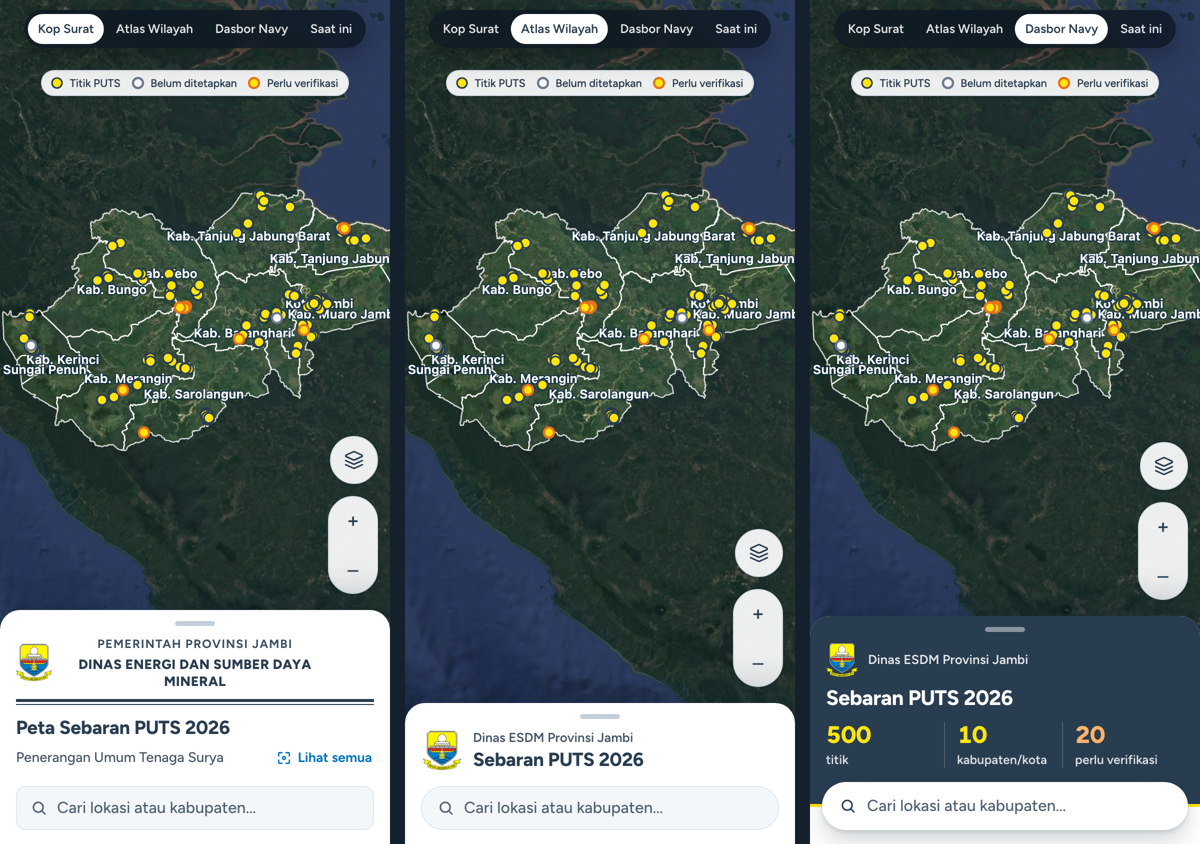
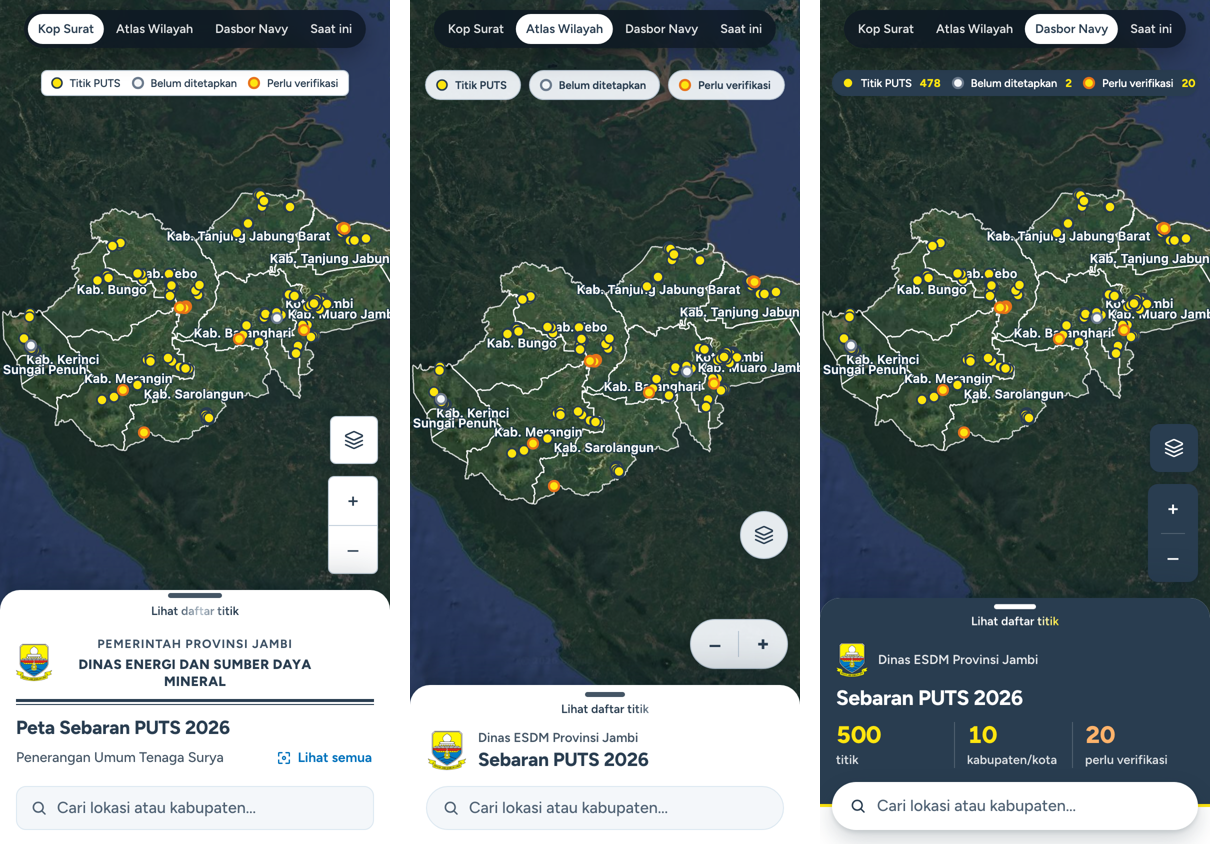
Give the phone sheet handle the live site's drag cues
The grabber now carries the caption under the bar and plays the site's
call-out, hop and first-visit lift, mirrored from the frame's
is-sheet-hinting and is-sheet-nudging. The site's own sheet is hidden as
soon as the frame has a document instead of after every tile has loaded.

Changed region(s): [[0.0, 0.0, 1.0, 1.0], [0.0617, 0.955, 0.2158, 0.9858], [0.37, 0.955, 0.4625, 0.9858]]

diff --git a/.superpowers/mockups/sidebar/mockup.css b/.superpowers/mockups/sidebar/mockup.css
@@ -1858,35 +1858,175 @@ body.is-mobile .mk-expand {
   display: none !important;
 }
 
+/* The live site's handle: a grabber bar with a plain caption under it, the
+   whole strip the tap and drag target. Same sizes, same slate. */
 body.is-mobile .mk-grabber {
   position: absolute;
   z-index: 3;
   top: 0;
   right: 0;
   left: 0;
-  display: grid;
-  place-items: center;
-  height: 26px;
-  padding: 0;
+  display: flex;
+  flex-direction: column;
+  align-items: center;
+  justify-content: center;
+  gap: 5px;
+  min-height: 40px;
+  padding: 7px 12px 8px;
   border: 0;
   background: transparent;
   cursor: grab;
   touch-action: none;
+  user-select: none;
+  -webkit-tap-highlight-color: transparent;
 }
 
-.mk-grabber span {
+.mk-grabber__bar {
+  display: block;
   width: 40px;
   height: 5px;
   border-radius: 3px;
-  background: #c3cfda;
+  background: #aab6c1;
+  transition: background-color var(--dur) var(--ease-out), width var(--dur) var(--ease-out);
 }
 
-body.is-mobile .vc .mk-grabber span {
-  background: rgba(255, 255, 255, 0.45);
+.mk-grabber__text {
+  color: var(--muted);
+  font: 600 12px/1.2 var(--font);
+  white-space: nowrap;
+}
+
+body.is-mobile .mk-grabber:active .mk-grabber__bar {
+  width: 48px;
+  background: var(--muted-2);
 }
 
 body.is-mobile .mk-grabber:focus-visible {
   outline-offset: -4px;
+}
+
+/* C's handle sits on the navy band. */
+body.is-mobile .vc .mk-grabber__bar {
+  background: rgba(255, 255, 255, 0.5);
+}
+
+body.is-mobile .vc .mk-grabber__text {
+  color: rgba(255, 255, 255, 0.82);
+}
+
+body.is-mobile .vc .mk-grabber:active .mk-grabber__bar {
+  background: rgba(255, 255, 255, 0.8);
+}
+
+/* Until the reader touches the sheet (or 12s pass) the handle calls out, as
+   live: the bar darkens, stretches and lifts in a beat and a light sweeps
+   across the caption. Then every few seconds it hops twice and rests. */
+body.is-mobile.is-sheet-hinting:not(.is-sheet-open) .mk-grabber__bar {
+  background: var(--muted);
+  animation: mk-grabber-call 1.4s var(--ease-out) infinite;
+}
+
+body.is-mobile.is-sheet-hinting:not(.is-sheet-open) .mk-grabber__text {
+  background: linear-gradient(100deg, var(--ink) 0 38%, #b3bfca 50%, var(--ink) 62% 100%) 0 0 / 260% 100%;
+  -webkit-background-clip: text;
+  background-clip: text;
+  color: transparent;
+  animation: mk-caption-call 1.4s var(--ease-out) infinite, mk-caption-shine 2.4s linear infinite;
+}
+
+body.is-mobile.is-sheet-hinting:not(.is-sheet-open) .vc .mk-grabber__bar {
+  background: #fff;
+}
+
+body.is-mobile.is-sheet-hinting:not(.is-sheet-open) .vc .mk-grabber__text {
+  background-image: linear-gradient(100deg, #fff 0 38%, var(--yellow) 50%, #fff 62% 100%);
+}
+
+body.is-mobile:not(.is-sheet-open):not(.has-popup):not(.is-sheet-hinting) .mk-grabber:not(:active) > span {
+  animation: mk-handle-hop 6s var(--ease-out) 1s infinite;
+}
+
+/* First visits: the whole sheet lifts a little and settles, then a smaller
+   echo — the gesture, demonstrated. Mirrors the site's is-sheet-nudging. */
+body.is-mobile.is-sheet-nudging:not(.is-sheet-open):not(.has-popup) .mk-panel {
+  animation: mk-sheet-nudge 1.6s var(--ease-out) 1;
+}
+
+@keyframes mk-grabber-call {
+  0%,
+  100% {
+    translate: 0 0;
+    width: 40px;
+  }
+
+  40% {
+    translate: 0 -4px;
+    width: 54px;
+  }
+}
+
+@keyframes mk-caption-call {
+  0%,
+  100% {
+    translate: 0 0;
+  }
+
+  40% {
+    translate: 0 -3px;
+  }
+}
+
+@keyframes mk-caption-shine {
+  from {
+    background-position: 100% 0;
+  }
+
+  to {
+    background-position: 0 0;
+  }
+}
+
+@keyframes mk-handle-hop {
+  0%,
+  16%,
+  100% {
+    translate: 0 0;
+  }
+
+  4% {
+    translate: 0 -5px;
+  }
+
+  8% {
+    translate: 0 0;
+  }
+
+  12% {
+    translate: 0 -2px;
+  }
+}
+
+@keyframes mk-sheet-nudge {
+  0%,
+  50%,
+  100% {
+    transform: translateY(calc(100% - var(--peek, 200px)));
+  }
+
+  22% {
+    transform: translateY(calc(100% - var(--peek, 200px) - 28px));
+  }
+
+  68% {
+    transform: translateY(calc(100% - var(--peek, 200px) - 12px));
+  }
+}
+
+@media (prefers-reduced-motion: reduce) {
+  body.is-mobile .mk-grabber > span,
+  body.is-mobile .mk-panel {
+    animation: none !important;
+  }
 }
 
 /* Thumbs, not pointers: 16px stops iOS zooming into the field. */
@@ -1897,7 +2037,7 @@ body.is-mobile .mk-search input {
 /* A — the letterhead tightens but keeps its centred lines and its rule. */
 body.is-mobile .va-kop {
   grid-template-columns: 36px minmax(0, 1fr) 36px;
-  padding: 26px 16px 10px;
+  padding: 46px 16px 10px;
 }
 
 body.is-mobile .va-kop img {
@@ -1931,11 +2071,11 @@ body.is-mobile :is(.va-thead, .va-row, .va-total, .va-section, .va-point, .va-fi
 
 /* B — header and grid already fit a phone; they only need the grabber's room. */
 body.is-mobile .vb-head {
-  padding-top: 26px;
+  padding-top: 44px;
 }
 
 body.is-mobile .vb-detail {
-  padding-top: 26px;
+  padding-top: 44px;
 }
 
 body.is-mobile .vb-locator {
@@ -1948,7 +2088,7 @@ body.is-mobile .vb-detail__main {
 
 /* C — a shorter band, so the peek is not all navy. */
 body.is-mobile .vc-band {
-  padding: 26px 12px 36px 16px;
+  padding: 44px 12px 36px 16px;
 }
 
 body.is-mobile .vc-title {

diff --git a/.superpowers/mockups/sidebar/mockup.js b/.superpowers/mockups/sidebar/mockup.js
@@ -24,6 +24,7 @@
   var searchClear = panel.querySelector(".mk-search__clear");
   var expandBtn = document.getElementById("mk-expand");
   var grabber = panel.querySelector(".mk-grabber");
+  var grabberText = grabber.querySelector(".mk-grabber__text");
   var switcher = document.getElementById("mk-switcher");
   var narrowNote = document.getElementById("mk-narrow");
 
@@ -1521,6 +1522,10 @@
   var dragged = false;
 
   grabber.addEventListener("pointerdown", function (event) {
+    // A finger on the handle ends the site's call-outs at once, as live.
+    if (appDoc) {
+      appDoc.body.classList.remove("is-sheet-hinting", "is-sheet-nudging");
+    }
     dragStart = event.clientY;
     dragged = false;
     grabber.setPointerCapture(event.pointerId);
@@ -1768,13 +1773,46 @@
       // point (which closes it) and the map's gestures behave as they do live.
       var open = appDoc.body.classList.contains("is-panel-open");
       body.classList.toggle("is-sheet-open", open);
+      var hint = open ? "Kembali ke peta" : "Lihat daftar titik";
       grabber.setAttribute("aria-expanded", String(open));
-      grabber.setAttribute("aria-label", open ? "Kembali ke peta" : "Lihat daftar titik");
+      grabber.setAttribute("aria-label", hint);
+      grabber.title = open
+        ? "Ketuk atau geser ke bawah untuk lihat peta"
+        : "Ketuk atau geser ke atas untuk lihat daftar";
+      if (grabberText.textContent !== hint) {
+        grabberText.textContent = hint;
+      }
+      // The site's own sheet cues (custom.js startSheetHints) run in the
+      // frame on phones; the mockup sheet plays them on its own handle.
+      body.classList.toggle("is-sheet-hinting", appDoc.body.classList.contains("is-sheet-hinting"));
+      body.classList.toggle("is-sheet-nudging", appDoc.body.classList.contains("is-sheet-nudging"));
     }).observe(appDoc.body, { attributes: true, attributeFilter: ["class"] });
 
     appDoc.addEventListener("keydown", onKey);
     setVariant(variant);
+    var early = appDoc.getElementById("mk-early");
+    if (early) {
+      early.remove();
+    }
   }
+
+  // The frame's load event waits for every map tile, which left the site's
+  // own sheet and sidebar on screen for seconds under the mockup. Hide them
+  // as soon as the frame has a document; attach() takes over from there.
+  var earlyTimer = setInterval(function () {
+    var doc = frame.contentDocument;
+    if (!doc || !doc.head || doc.URL === "about:blank") {
+      return;
+    }
+    clearInterval(earlyTimer);
+    if (variant === "asli" || doc.getElementById("mk-early")) {
+      return;
+    }
+    var early = doc.createElement("style");
+    early.id = "mk-early";
+    early.textContent = "#sidebar, #panel-toggle, .masthead { visibility: hidden !important; }";
+    doc.head.appendChild(early);
+  }, 30);
 
   frame.addEventListener("load", attach);
   layoutStage();

diff --git a/.superpowers/mockups/sidebar/index.html b/.superpowers/mockups/sidebar/index.html
@@ -25,9 +25,12 @@
       <iframe id="app" src="/index.html" title="Peta sebaran PUTS" tabindex="-1"></iframe>
 
       <aside id="mk-panel" class="mk-panel" aria-label="Daftar titik PUTS">
-        <!-- Phones only: the sheet's grabber. Tap or drag to open the list. -->
-        <button class="mk-grabber" type="button" aria-expanded="false" aria-label="Lihat daftar titik">
-          <span aria-hidden="true"></span>
+        <!-- Phones only: the sheet's handle, as on the live site — a grabber
+             bar with a caption under it. Tap or drag to open the list. -->
+        <button class="mk-grabber" type="button" aria-expanded="false" aria-label="Lihat daftar titik"
+          title="Ketuk atau geser ke atas untuk lihat daftar">
+          <span class="mk-grabber__bar" aria-hidden="true"></span>
+          <span class="mk-grabber__text" aria-hidden="true">Lihat daftar titik</span>
         </button>
         <div class="mk-region mk-top" data-region="top"></div>
         <label class="mk-search" data-region="search">
